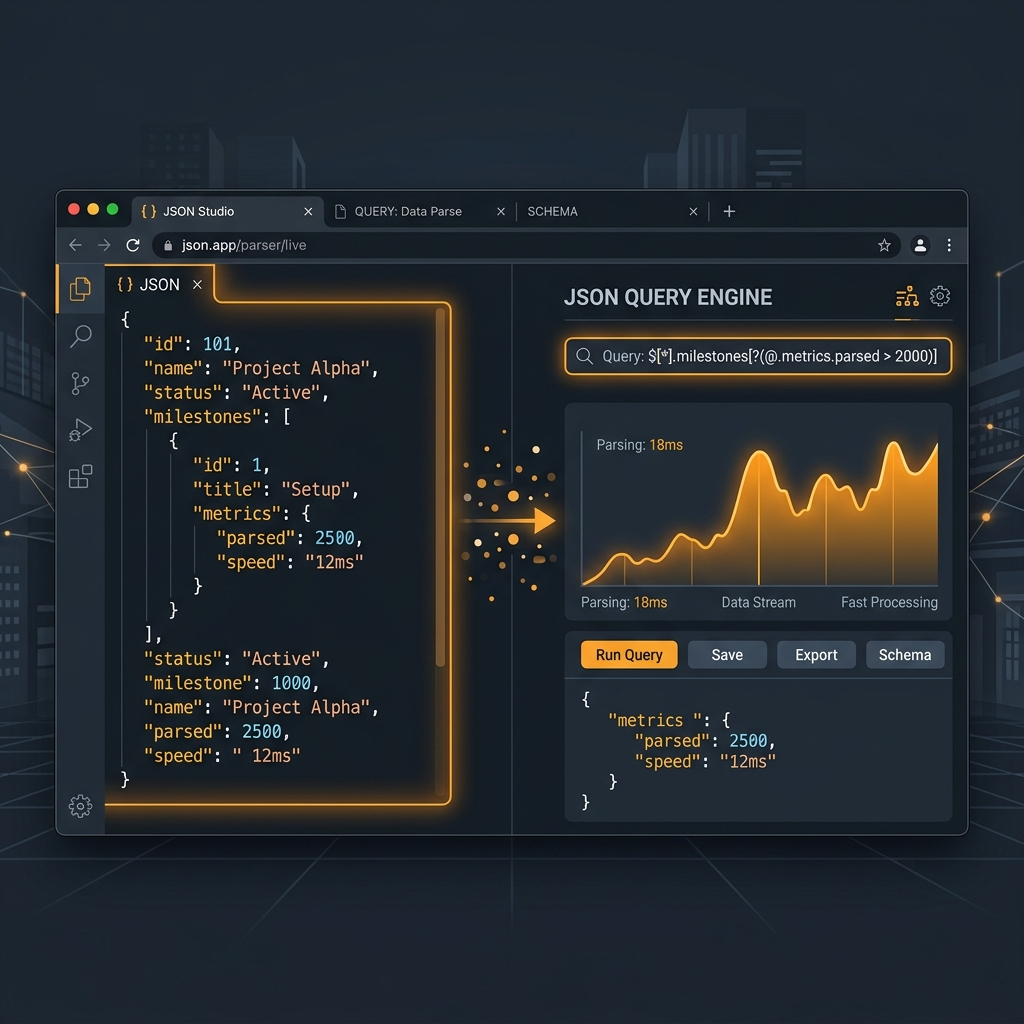
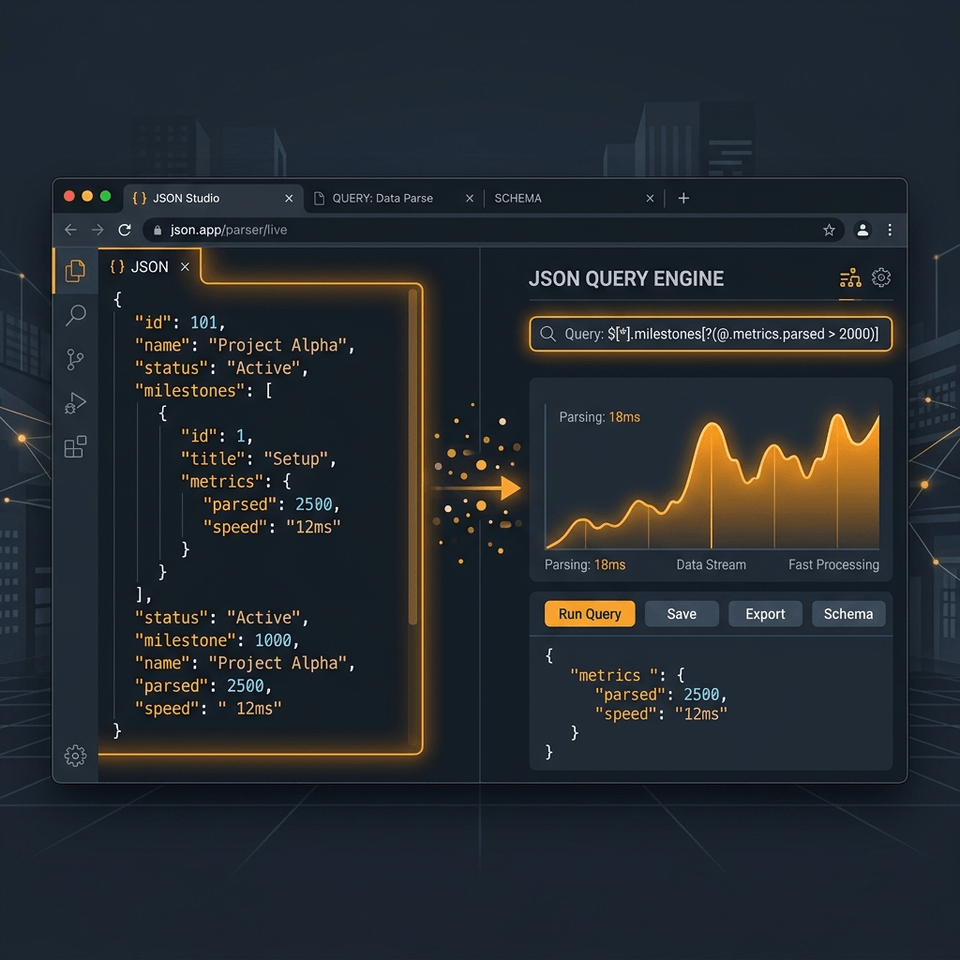
perf: optimize hero images to WebP and fix LCP lazy loading

diff --git a/src/content/articles/why-developers-need-a-daily-companion.md b/src/content/articles/why-developers-need-a-daily-companion.md
@@ -4,7 +4,7 @@ description: "Why generic to-do tools fail developers, the cost of context switc
 publishDate: 2026-07-02
 category: "architecture"
 tags: ["react", "system-design"]
-heroImage: "/why-developers-need-a-daily-companion-hero.png"
+heroImage: "/why-developers-need-a-daily-companion-hero.webp"
 heroImageAlt: "A chaotic web of complex Jira tickets transforming into a clean, minimal developer task list."
 draft: false
 ---

diff --git a/src/content/articles/gemini-interview-prep.md b/src/content/articles/gemini-interview-prep.md
@@ -4,7 +4,7 @@ description: "How I used Gemini's Guided Learning, Canvas, and Interactive Quiz 
 publishDate: 2026-07-26
 category: "interviews"
 tags: ["react", "system-design"]
-heroImage: "/gemini-interview-prep-hero.png"
+heroImage: "/gemini-interview-prep-hero.webp"
 heroImageAlt: "A developer studying with Gemini AI for a senior technical interview, with code elements and a ticking clock"
 draft: false
 ---

diff --git a/src/content/articles/mern-stack-ai-interview-experience.md b/src/content/articles/mern-stack-ai-interview-experience.md
@@ -4,7 +4,7 @@ description: "My experience taking an AI-powered Berribot technical interview. H
 publishDate: 2026-07-20
 category: "interviews"
 tags: ["react", "system-design", "performance"]
-heroImage: "/mern_ai_interview_hero_1784465198163.png"
+heroImage: "/mern_ai_interview_hero_1784465198163.webp"
 heroImageAlt: "Robot conducting an interview with a developer, with MERN stack logos"
 draft: false
 ---

diff --git a/src/content/articles/whiteboard-reality-check.md b/src/content/articles/whiteboard-reality-check.md
@@ -4,7 +4,7 @@ description: "How over-reliance on AI coding agents and a lack of hand-written c
 publishDate: 2026-07-04
 category: "interviews"
 tags: ["react", "system-design"]
-heroImage: "/whiteboard-reality-check-hero.png"
+heroImage: "/whiteboard-reality-check-hero.webp"
 heroImageAlt: "A physical fountain pen resting on top of handwritten code notes, with amber digital code glows"
 draft: false
 ---

diff --git a/src/content/articles/20-minute-angular-interview-experience.md b/src/content/articles/20-minute-angular-interview-experience.md
@@ -4,7 +4,7 @@ description: "My honest review of a rapid 20-minute Angular technical interview,
 publishDate: 2026-07-22
 category: "interviews"
 tags: ["performance", "system-design"]
-heroImage: "/angular_interview_hero.png"
+heroImage: "/angular_interview_hero.webp"
 heroImageAlt: "Modern 16:9 technical artwork representing a 20-minute Angular interview with clock and code elements"
 draft: false
 ---

diff --git a/src/content/articles/evolving-the-json-formatter.md b/src/content/articles/evolving-the-json-formatter.md
@@ -4,7 +4,7 @@ description: "Why your basic JSON Formatter is slowing you down, and the enginee
 publishDate: 2026-07-02
 category: "frontend"
 tags: ["react", "system-design"]
-heroImage: "/evolving-the-json-formatter-hero.png"
+heroImage: "/evolving-the-json-formatter-hero.webp"
 heroImageAlt: "Sleek IDE interface illustrating a glowing JSON query engine"
 draft: false
 ---
